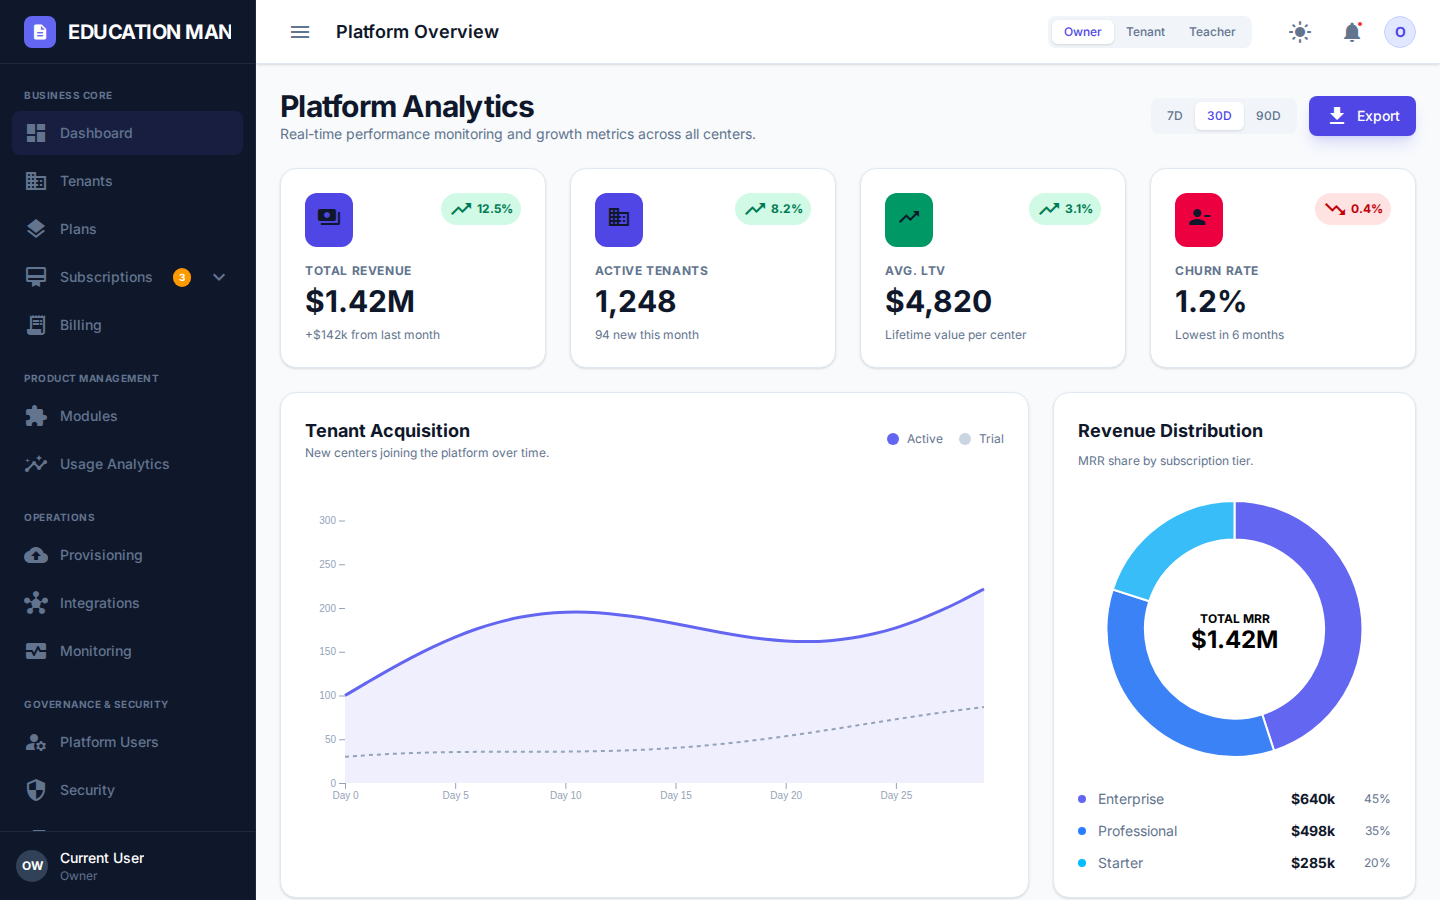
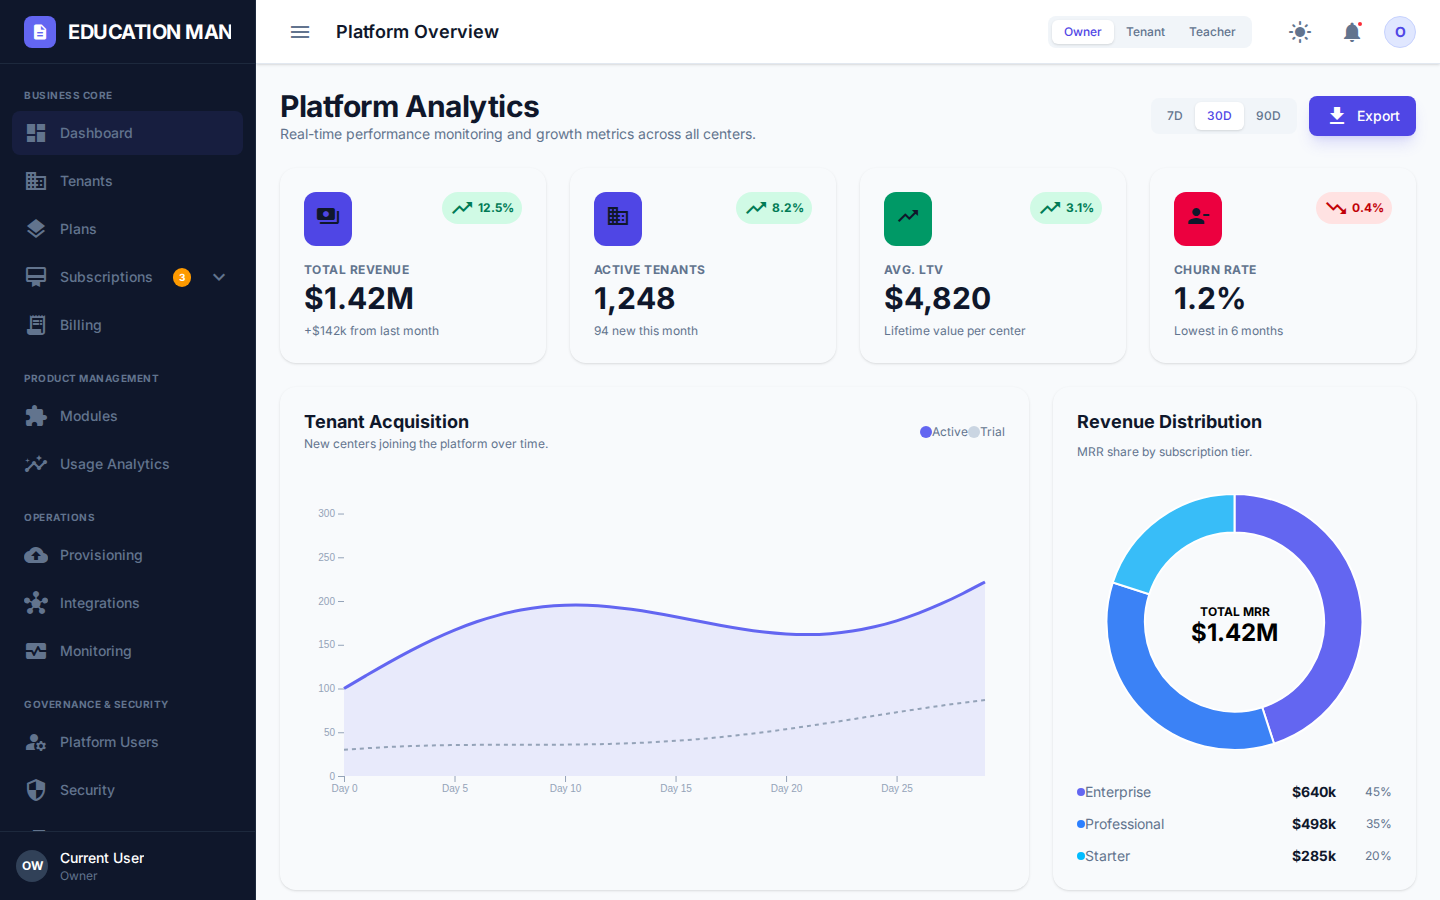
Extracted repeated one-off utility bundles into scoped classes in: owner-overview.component.html owner-overview.component.css Added slice report: ds-feature-adoption-owner-slice-16.md

diff --git a/src/app/features/owner/pages/owner-overview/owner-overview.component.css b/src/app/features/owner/pages/owner-overview/owner-overview.component.css
@@ -1,4 +1,122 @@
 
-    :host { display: block; }
-    .prose { max-width: none; }
+:host {
+  display: block;
+}
+
+.prose {
+  max-width: none;
+}
+
+.owner-overview-page {
+  align-content: start;
+}
+
+.owner-overview-header {
+  gap: var(--space-4);
+}
+
+.owner-overview-title {
+  letter-spacing: -0.015em;
+}
+
+.owner-overview-subtitle {
+  line-height: 1.25rem;
+}
+
+.owner-overview-header-actions {
+  flex-wrap: wrap;
+}
+
+.owner-overview-range {
+  border-radius: var(--radius-lg);
+}
+
+.owner-overview-range-btn {
+  transition: all 0.2s ease;
+}
+
+.owner-overview-export-btn {
+  display: inline-flex;
+  align-items: center;
+  transition: all 0.2s ease;
+}
+
+.owner-overview-card {
+  background: var(--color-bg-card);
+  border: 1px solid var(--color-border-primary);
+  border-radius: var(--radius-2xl);
+  box-shadow: var(--shadow-sm);
+}
+
+.owner-overview-card:hover {
+  box-shadow: var(--shadow-md);
+}
+
+.owner-overview-kpi-head {
+  align-items: flex-start;
+}
+
+.owner-overview-kpi-chip {
+  white-space: nowrap;
+}
+
+.owner-overview-kpi-label {
+  letter-spacing: 0.04em;
+}
+
+.owner-overview-kpi-value {
+  line-height: 1.1;
+}
+
+.owner-overview-section-title {
+  line-height: 1.25;
+}
+
+.owner-overview-section-subtitle {
+  line-height: 1.25rem;
+}
+
+.owner-overview-chart-shell {
+  min-width: 0;
+}
+
+.owner-overview-chart-canvas {
+  min-width: 0;
+}
+
+.owner-overview-legend {
+  gap: var(--space-4);
+}
+
+.owner-overview-legend-item {
+  gap: var(--space-2);
+}
+
+.owner-overview-legend-dot {
+  flex-shrink: 0;
+}
+
+.owner-overview-plan-row {
+  gap: var(--space-3);
+}
+
+.owner-overview-plan-name {
+  line-height: 1.25rem;
+}
+
+.owner-overview-activity-item {
+  gap: var(--space-4);
+}
+
+.owner-overview-activity-icon {
+  flex-shrink: 0;
+}
+
+.owner-overview-live-btn {
+  transition: background-color 0.2s ease, color 0.2s ease;
+}
+
+.owner-overview-health-badge {
+  white-space: nowrap;
+}
   

diff --git a/src/app/features/owner/pages/owner-overview/owner-overview.component.html b/src/app/features/owner/pages/owner-overview/owner-overview.component.html
@@ -1,16 +1,16 @@
 
-    <div class="space-y-6">
+    <div class="owner-overview-page space-y-6">
       <!-- Header -->
-      <div class="flex flex-col md:flex-row md:items-center justify-between gap-4">
+      <div class="owner-overview-header flex flex-col md:flex-row md:items-center justify-between">
         <div>
-          <h2 class="text-3xl font-bold text-slate-900 dark:text-white tracking-tight">Platform Analytics</h2>
-          <p class="text-slate-500 dark:text-slate-500 text-sm">Real-time performance monitoring and growth metrics across all centers.</p>
+          <h2 class="owner-overview-title text-3xl font-bold text-slate-900 dark:text-white">Platform Analytics</h2>
+          <p class="owner-overview-subtitle text-slate-500 dark:text-slate-500 text-sm">Real-time performance monitoring and growth metrics across all centers.</p>
         </div>
-        <div class="flex items-center gap-3">
-          <div class="flex bg-slate-100 dark:bg-slate-800 p-1 rounded-lg">
+        <div class="owner-overview-header-actions flex items-center gap-3">
+          <div class="owner-overview-range flex bg-slate-100 dark:bg-slate-800 p-1">
             <button 
               (click)="timeRange.set('7d')"
-              class="px-3 py-1.5 text-xs font-medium rounded-md transition-all"
+              class="owner-overview-range-btn px-3 py-1.5 text-xs font-medium rounded-md"
               [class.bg-white]="timeRange() === '7d'"
               [class.shadow-sm]="timeRange() === '7d'"
               [class.text-indigo-600]="timeRange() === '7d'"
@@ -18,7 +18,7 @@
             >7D</button>
             <button 
               (click)="timeRange.set('30d')"
-              class="px-3 py-1.5 text-xs font-medium rounded-md transition-all"
+              class="owner-overview-range-btn px-3 py-1.5 text-xs font-medium rounded-md"
               [class.bg-white]="timeRange() === '30d'"
               [class.shadow-sm]="timeRange() === '30d'"
               [class.text-indigo-600]="timeRange() === '30d'"
@@ -26,29 +26,29 @@
             >30D</button>
             <button 
               (click)="timeRange.set('90d')"
-              class="px-3 py-1.5 text-xs font-medium rounded-md transition-all"
+              class="owner-overview-range-btn px-3 py-1.5 text-xs font-medium rounded-md"
               [class.bg-white]="timeRange() === '90d'"
               [class.shadow-sm]="timeRange() === '90d'"
               [class.text-indigo-600]="timeRange() === '90d'"
               [class.text-slate-500]="timeRange() !== '90d'"
             >90D</button>
           </div>
-          <button class="flex items-center gap-2 px-4 py-2 bg-indigo-600 hover:bg-indigo-700 text-white rounded-lg text-sm font-medium transition-all shadow-lg shadow-indigo-500/20">
+          <button class="owner-overview-export-btn gap-2 px-4 py-2 bg-indigo-600 hover:bg-indigo-700 text-white rounded-lg text-sm font-medium shadow-lg shadow-indigo-500/20">
             <mat-icon class="text-sm">file_download</mat-icon>
             Export
           </button>
         </div>
       </div>
 
-      <!-- KPI Grid -->
+        <!-- KPI Grid -->
       <div class="grid grid-cols-1 md:grid-cols-2 lg:grid-cols-4 gap-6">
         @for (stat of stats(); track stat.label) {
-          <div class="bg-white dark:bg-slate-900 p-6 rounded-2xl border border-slate-200 dark:border-slate-800 shadow-sm hover:shadow-md transition-shadow">
-            <div class="flex justify-between items-start mb-4">
+          <div class="owner-overview-card p-6 transition-shadow">
+            <div class="owner-overview-kpi-head flex justify-between mb-4">
               <div class="p-3 rounded-xl" [class]="stat.color">
                 <mat-icon class="text-white">{{ stat.icon }}</mat-icon>
               </div>
-              <div class="flex items-center gap-1 px-2 py-1 rounded-full text-xs font-bold"
+              <div class="owner-overview-kpi-chip flex items-center gap-1 px-2 py-1 rounded-full text-xs font-bold"
                 [class.bg-emerald-100]="stat.trend === 'up'"
                 [class.text-emerald-700]="stat.trend === 'up'"
                 [class.bg-red-100]="stat.trend === 'down'"
@@ -58,8 +58,8 @@
                 {{ stat.change }}
               </div>
             </div>
-            <h3 class="text-slate-500 dark:text-slate-500 text-xs font-bold uppercase tracking-wider">{{ stat.label }}</h3>
-            <p class="text-3xl font-bold text-slate-900 dark:text-white mt-1">{{ stat.value }}</p>
+            <h3 class="owner-overview-kpi-label text-slate-500 dark:text-slate-500 text-xs font-bold uppercase">{{ stat.label }}</h3>
+            <p class="owner-overview-kpi-value text-3xl font-bold text-slate-900 dark:text-white mt-1">{{ stat.value }}</p>
             <p class="text-xs text-slate-500 mt-2">{{ stat.details }}</p>
           </div>
         }
@@ -68,38 +68,38 @@
       <!-- Charts Section -->
       <div class="grid grid-cols-1 lg:grid-cols-3 gap-6">
         <!-- Growth Chart -->
-        <div class="lg:col-span-2 bg-white dark:bg-slate-900 p-6 rounded-2xl border border-slate-200 dark:border-slate-800 shadow-sm">
+        <div class="owner-overview-card owner-overview-chart-shell lg:col-span-2 p-6">
           <div class="flex items-center justify-between mb-8">
             <div>
-              <h3 class="text-lg font-bold text-slate-900 dark:text-white">Tenant Acquisition</h3>
-              <p class="text-xs text-slate-500">New centers joining the platform over time.</p>
+              <h3 class="owner-overview-section-title text-lg font-bold text-slate-900 dark:text-white">Tenant Acquisition</h3>
+              <p class="owner-overview-section-subtitle text-xs text-slate-500">New centers joining the platform over time.</p>
             </div>
-            <div class="flex items-center gap-4">
-              <div class="flex items-center gap-2">
-                <span class="w-3 h-3 rounded-full bg-indigo-500"></span>
+            <div class="owner-overview-legend flex items-center">
+              <div class="owner-overview-legend-item flex items-center">
+                <span class="owner-overview-legend-dot w-3 h-3 rounded-full bg-indigo-500"></span>
                 <span class="text-xs text-slate-500">Active</span>
               </div>
-              <div class="flex items-center gap-2">
-                <span class="w-3 h-3 rounded-full bg-slate-300 dark:bg-slate-700"></span>
+              <div class="owner-overview-legend-item flex items-center">
+                <span class="owner-overview-legend-dot w-3 h-3 rounded-full bg-slate-300 dark:bg-slate-700"></span>
                 <span class="text-xs text-slate-500">Trial</span>
               </div>
             </div>
           </div>
-          <div #growthChart class="h-80 w-full overflow-hidden"></div>
+          <div #growthChart class="owner-overview-chart-canvas h-80 w-full overflow-hidden"></div>
         </div>
 
         <!-- Revenue Distribution -->
-        <div class="bg-white dark:bg-slate-900 p-6 rounded-2xl border border-slate-200 dark:border-slate-800 shadow-sm">
-          <h3 class="text-lg font-bold text-slate-900 dark:text-white mb-2">Revenue Distribution</h3>
-          <p class="text-xs text-slate-500 mb-8">MRR share by subscription tier.</p>
+        <div class="owner-overview-card p-6">
+          <h3 class="owner-overview-section-title text-lg font-bold text-slate-900 dark:text-white mb-2">Revenue Distribution</h3>
+          <p class="owner-overview-section-subtitle text-xs text-slate-500 mb-8">MRR share by subscription tier.</p>
           <div #revenueChart class="h-64 w-full flex items-center justify-center"></div>
           
           <div class="mt-8 space-y-3">
             @for (plan of plans(); track plan.name) {
               <div class="flex items-center justify-between">
-                <div class="flex items-center gap-3">
+                <div class="owner-overview-plan-row flex items-center">
                   <span class="w-2 h-2 rounded-full" [class]="plan.dotColor"></span>
-                  <span class="text-sm text-slate-500 dark:text-slate-500">{{ plan.name }}</span>
+                  <span class="owner-overview-plan-name text-sm text-slate-500 dark:text-slate-500">{{ plan.name }}</span>
                 </div>
                 <div class="flex items-center gap-4">
                   <span class="text-sm font-bold text-slate-900 dark:text-white">{{ plan.value }}</span>
@@ -114,9 +114,9 @@
       <!-- Bottom Grid -->
       <div class="grid grid-cols-1 lg:grid-cols-3 gap-6">
         <!-- Recent Activity -->
-        <div class="bg-white dark:bg-slate-900 p-6 rounded-2xl border border-slate-200 dark:border-slate-800 shadow-sm">
+        <div class="owner-overview-card p-6">
           <div class="flex items-center justify-between mb-6">
-            <h3 class="text-lg font-bold text-slate-900 dark:text-white">Live Activity</h3>
+            <h3 class="owner-overview-section-title text-lg font-bold text-slate-900 dark:text-white">Live Activity</h3>
             <span class="flex h-2 w-2 relative">
               <span class="animate-ping absolute inline-flex h-full w-full rounded-full bg-emerald-400 opacity-75"></span>
               <span class="relative inline-flex rounded-full h-2 w-2 bg-emerald-500"></span>
@@ -124,8 +124,8 @@
           </div>
           <div class="space-y-6">
             @for (activity of activities(); track activity.id) {
-              <div class="flex gap-4">
-                <div class="shrink-0 w-10 h-10 rounded-full bg-slate-100 dark:bg-slate-800 flex items-center justify-center">
+              <div class="owner-overview-activity-item flex">
+                <div class="owner-overview-activity-icon w-10 h-10 rounded-full bg-slate-100 dark:bg-slate-800 flex items-center justify-center">
                   <mat-icon class="text-slate-500 text-sm">{{ activity.icon }}</mat-icon>
                 </div>
                 <div class="flex-1 min-w-0">
@@ -136,16 +136,16 @@
               </div>
             }
           </div>
-          <button class="w-full mt-6 py-2 text-sm font-medium text-indigo-600 dark:text-indigo-400 hover:bg-indigo-600/10 dark:hover:bg-indigo-900/20 rounded-xl transition-colors">
+          <button class="owner-overview-live-btn w-full mt-6 py-2 text-sm font-medium text-indigo-600 dark:text-indigo-400 hover:bg-indigo-600/10 dark:hover:bg-indigo-900/20 rounded-xl">
             View Audit Logs
           </button>
         </div>
 
         <!-- System Health & Regions -->
-        <div class="lg:col-span-2 bg-white dark:bg-slate-900 p-6 rounded-2xl border border-slate-200 dark:border-slate-800 shadow-sm">
+        <div class="owner-overview-card lg:col-span-2 p-6">
           <div class="flex items-center justify-between mb-8">
-            <h3 class="text-lg font-bold text-slate-900 dark:text-white">Infrastructure Health</h3>
-            <div class="flex items-center gap-2 px-3 py-1 bg-emerald-100 dark:bg-emerald-900/30 text-emerald-700 dark:text-emerald-400 rounded-full text-xs font-bold">
+            <h3 class="owner-overview-section-title text-lg font-bold text-slate-900 dark:text-white">Infrastructure Health</h3>
+            <div class="owner-overview-health-badge flex items-center gap-2 px-3 py-1 bg-emerald-100 dark:bg-emerald-900/30 text-emerald-700 dark:text-emerald-400 rounded-full text-xs font-bold">
               <mat-icon class="text-xs">check_circle</mat-icon>
               ALL SYSTEMS OPERATIONAL
             </div>

diff --git a/docs/ds-feature-adoption-owner-slice-16.md b/docs/ds-feature-adoption-owner-slice-16.md
@@ -1,0 +1,35 @@
+# DS Feature Adoption - Owner Slice 16
+
+Date: 2026-04-22  
+Status: Completed
+
+## Goal
+Continue Epic 6 Owner adoption by extracting repeated one-off utility bundles from the Owner overview route into component-scoped DS-aligned classes.
+
+## Scope
+- Route: `/owner/overview`
+- Files:
+  - `src/app/features/owner/pages/owner-overview/owner-overview.component.html`
+  - `src/app/features/owner/pages/owner-overview/owner-overview.component.css`
+
+## Implemented Changes
+- Added page-scoped `owner-overview-*` classes for repeated bundles:
+  - page/header shell and range/export action controls
+  - repeated card wrappers and section title/subtitle patterns
+  - KPI card header/chip/label/value patterns
+  - chart legend rows, plan rows, and activity list rows
+  - live-action button and health badge utility bundles
+- Replaced repeated one-off utility bundles in template while keeping overview behavior (charts/signals/interactions) unchanged.
+
+## Validation
+- Build:
+  - `npm run build` passed (with pre-existing unrelated warnings).
+- Lint:
+  - `npm run lint` passed.
+- Focused visual re-baseline:
+  - `npm run vr:update -- --grep "owner-overview"` passed (`6 passed`).
+- Focused visual verification:
+  - `npm run vr:test -- --grep "owner-overview"` passed (`6 passed`).
+
+## Notes
+- Existing pre-existing warnings remain unchanged (`NG8107` in owner-plan-details + CommonJS optimization warnings).

diff --git a/DS-CurrentTask.md b/DS-CurrentTask.md
@@ -1,25 +1,24 @@
-# Current Task: Phase 6 - Feature Adoption (Owner Slice 15)
+# Current Task: Phase 6 - Feature Adoption (Owner Slice 16)
 
 ## Objective
-Apply the Owner feature adoption extraction pattern to `/owner/subscriptions/create` by replacing repeated one-off utility bundles with component-scoped DS-aligned classes.
+Apply the Owner feature adoption extraction pattern to `/owner/overview` by replacing repeated one-off utility bundles with component-scoped DS-aligned classes.
 
 ## Status
 `Completed`
 
 ## Sub-Tasks
-- [x] Add page-scoped DS-aligned classes for repeated page/header shell, section cards, form fields, and action controls.
-- [x] Replace repeated one-off utility bundles in template while keeping all form behavior/logic unchanged.
-- [x] Expand P0 visual matrix route coverage to include `/owner/subscriptions/create`.
+- [x] Add page-scoped DS-aligned classes for repeated page/header shell, card wrappers, KPI rows, and action controls.
+- [x] Replace repeated one-off utility bundles in template while keeping chart/signals interactions unchanged.
 - [x] Validate build (`npm run build`).
 - [x] Validate lint (`npm run lint`).
-- [x] Re-baseline and verify focused visual snapshots (`npm run vr:update -- --grep "owner-subscription-create"` + `npm run vr:test -- --grep "owner-subscription-create"`).
+- [x] Re-baseline and verify focused visual snapshots (`npm run vr:update -- --grep "owner-overview"` + `npm run vr:test -- --grep "owner-overview"`).
 
 ## Exit Criteria
-- High-frequency Owner subscription-create route reduced repeated one-off utility bundles.
+- High-frequency Owner overview route reduced repeated one-off utility bundles.
 - No behavior change introduced.
 - Focused route visual checks pass.
 
 ## Next Task (Active)
-Phase 6 - Feature Adoption (Owner Slice 16):
-- Apply the same extraction pattern to next high-frequency Owner surface (`/owner/overview`).
+Phase 6 - Feature Adoption (Owner Slice 17):
+- Apply the same extraction pattern to next high-frequency Owner surface (`/owner/analytics`).
 - Keep route-level parity guardrail via focused visual regression.

diff --git a/DS-Plan.md b/DS-Plan.md
@@ -72,4 +72,5 @@ Build an enterprise-grade Design System on top of the current Angular + Tailwind
 - Epic 6 Owner Slice 13 is completed (`/owner/subscriptions/templates/:id`).
 - Epic 6 Owner Slice 14 is completed (`/owner/subscriptions/:id`).
 - Epic 6 Owner Slice 15 is completed (`/owner/subscriptions/create`).
-- Next active slice is Owner Slice 16 (`/owner/overview`).
+- Epic 6 Owner Slice 16 is completed (`/owner/overview`).
+- Next active slice is Owner Slice 17 (`/owner/analytics`).

diff --git a/DS-Task.md b/DS-Task.md
@@ -81,6 +81,7 @@ Status legend:
 - [x] `Done` Execute Owner Slice 13 one-off style extraction on high-usage subscriptions-template-details route with focused visual re-baseline (`docs/ds-feature-adoption-owner-slice-13.md`).
 - [x] `Done` Execute Owner Slice 14 one-off style extraction on high-usage subscription-details route with focused visual re-baseline (`docs/ds-feature-adoption-owner-slice-14.md`).
 - [x] `Done` Execute Owner Slice 15 one-off style extraction on high-usage subscription-create route with focused visual re-baseline (`docs/ds-feature-adoption-owner-slice-15.md`).
+- [x] `Done` Execute Owner Slice 16 one-off style extraction on high-usage owner-overview route with focused visual re-baseline (`docs/ds-feature-adoption-owner-slice-16.md`).
 - [x] `Done` Audit and inventory inline styles (`style=\"...\"`, `[style.*]`, `[ngStyle]`) by feature (`docs/ds-inline-style-inventory.md`).
 - [x] `Done` Execute first P0 inline-style conversion to DS CSS-variable pattern (`owner-overview` regional progress bars) (`docs/ds-token-adoption-slice-01.md`).
 - [x] `Done` Execute second P0 inline-style conversion to DS CSS-variable pattern (`owner-billing` revenue bars) (`docs/ds-token-adoption-slice-01.md`).